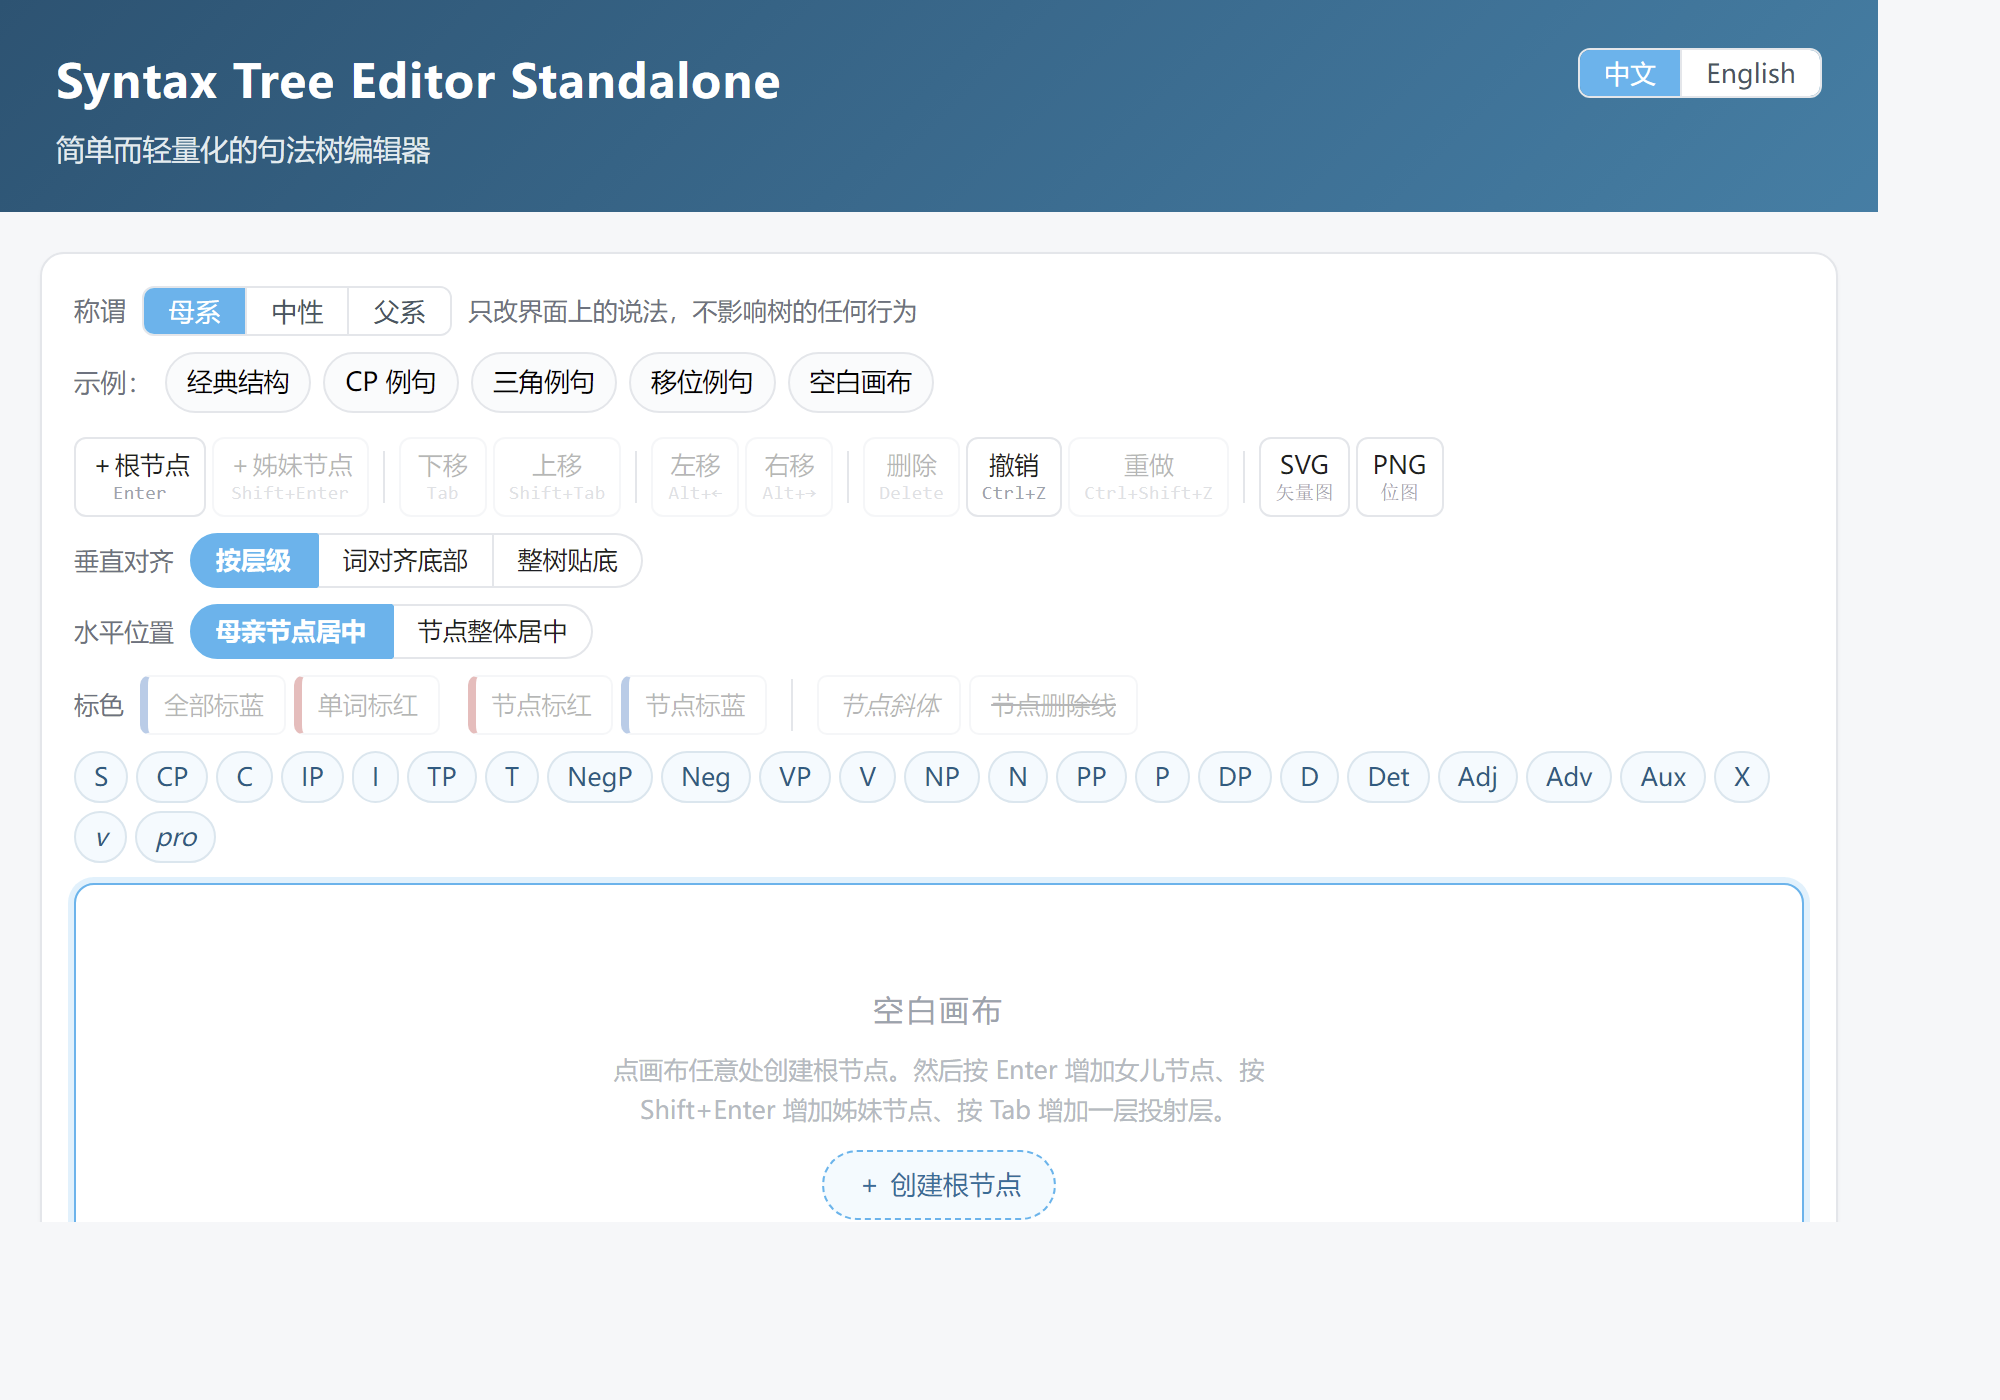
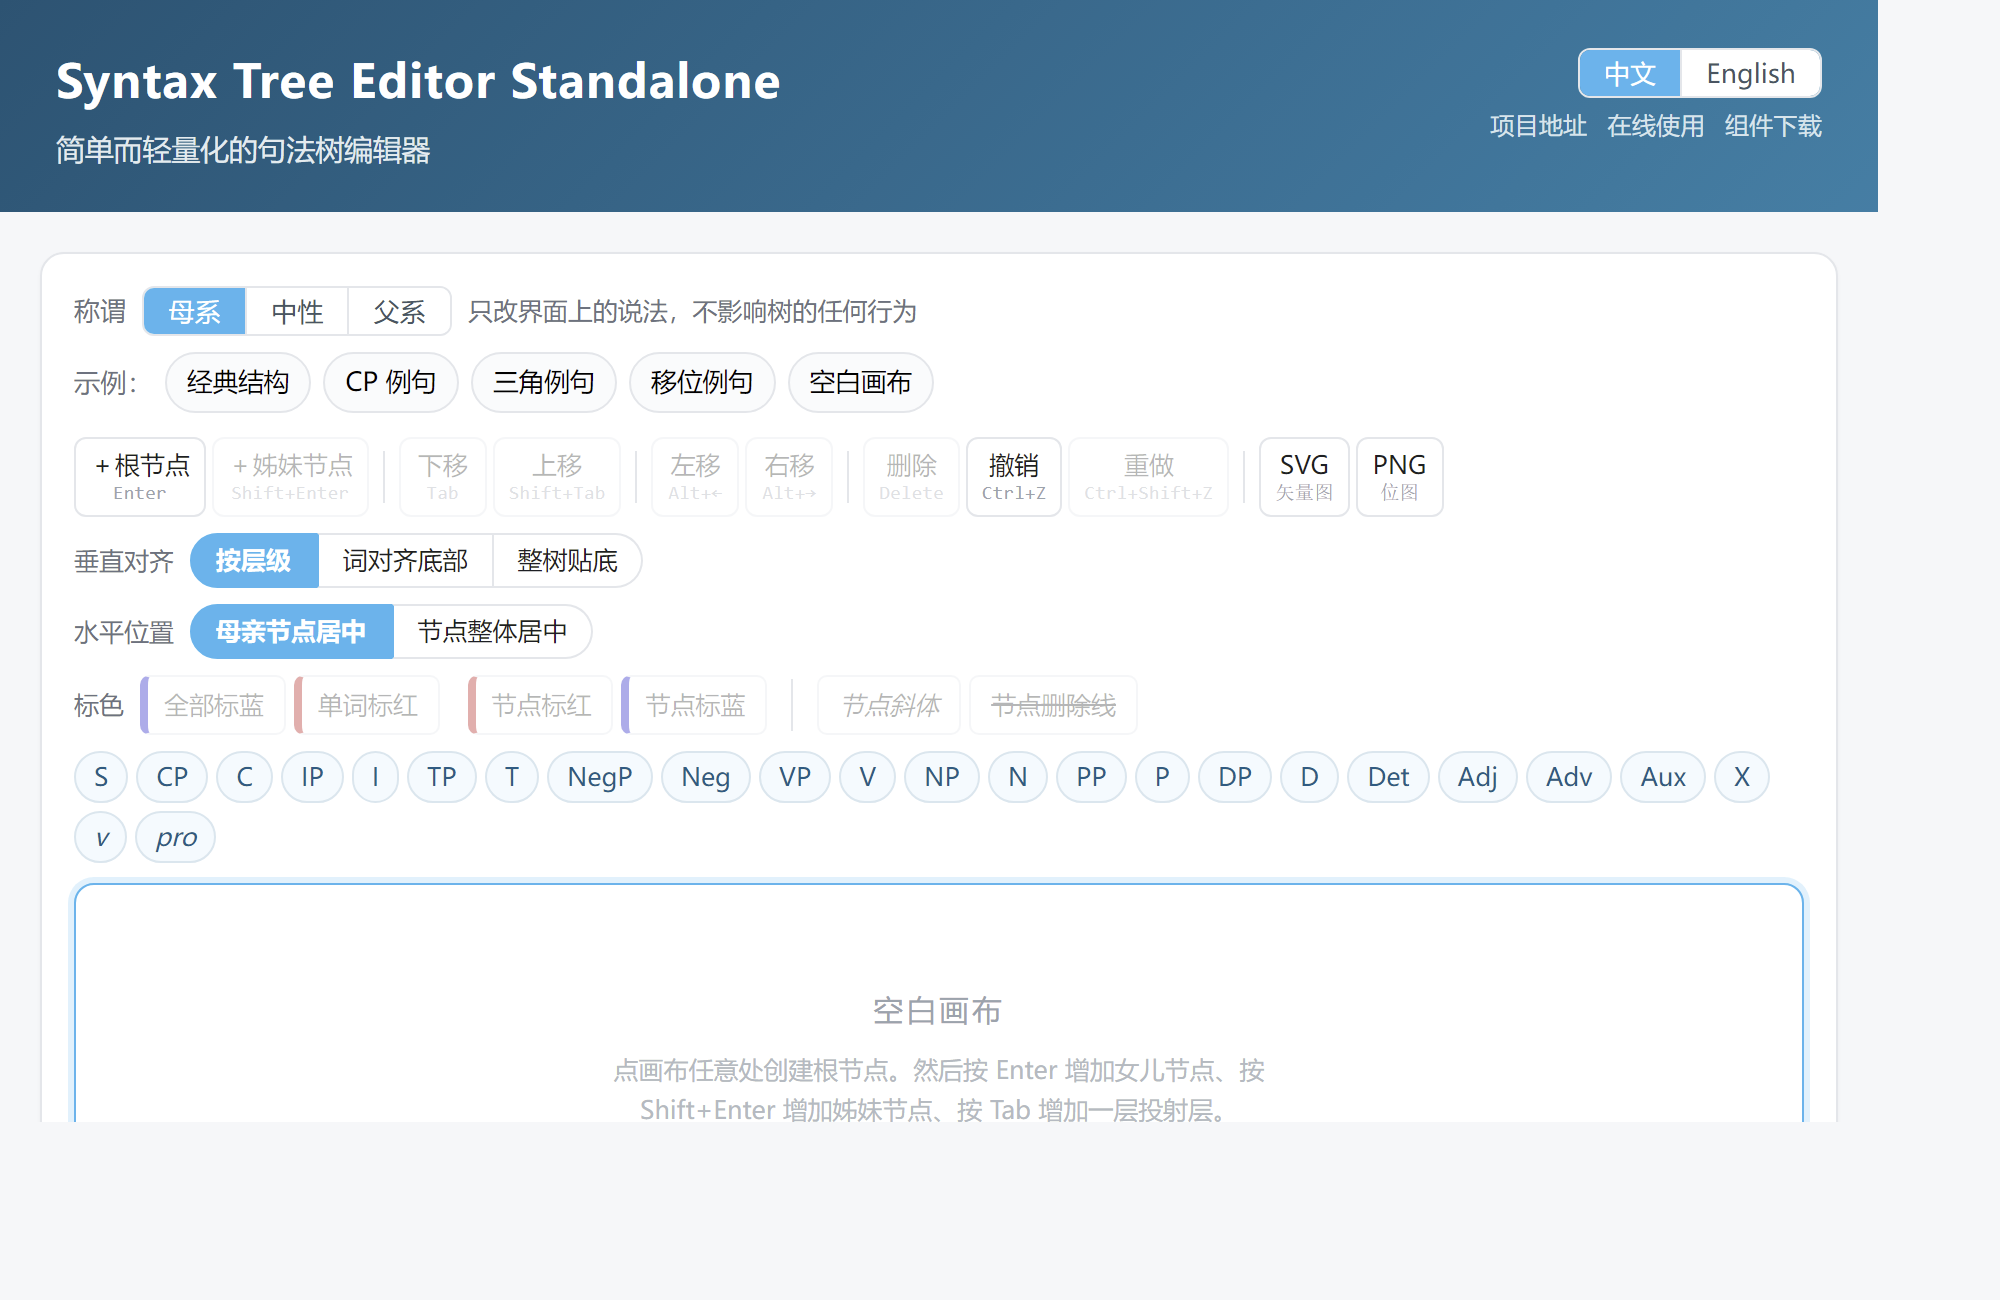
页头：项目地址 / 在线使用 / 组件下载 三个链接挪到右上角语言切换下面，页脚不再重复
作者 2026-09-18：「把项目地址等三项放到右上切换语言的下边一遍」。

- index.html：页头右上的语言切换外面包一层 .head-right（竖排），下面加一行 .head-links
  放三个链接（文案仍走 i18n 的 page.link.* ；页脚那一份删掉，只留版权行）
- style.css：新增 .head-right（align-items:flex-end + gap）、.head-links（浅色、悬停变白加下划线）；
  .head-lang 不再自己 margin-top，交给 .head-right
- screenshots/ 六张**重拍**（界面变了，按铁律 9；参数照 HANDOVER 第六部分那张表）
- CHANGELOG v1.2.4 加一条「三个链接挪到页头右上角」
- npm test：111 + 31 + 172 + 13 = 327 项全绿，一致性自检 0 个问题
- 中英两版页头都实拍确认过（链接文案走 i18n：Repository / Live demo / Download）

diff --git a/Syntax Tree Editor Standalone.html b/Syntax Tree Editor Standalone.html
@@ -55,7 +55,7 @@ header .note {
   border-radius: 0 6px 6px 0;
 }
 
-/* 页头一行：标题在左，语言切换在右上角。
+/* 页头一行：标题在左，右上角是「语言切换 + 三个链接」两行。
    语言按钮沿用 .terms-group 的样式，这里只把它调成适合深色页头的配色。 */
 .head-bar {
   display: flex;
@@ -64,9 +64,18 @@ header .note {
   gap: 16px;
 }
 
+/* 右上角那一列：上边是语言按钮，下边是项目地址 / 在线使用 / 组件下载 */
+.head-right {
+  flex: none;
+  display: flex;
+  flex-direction: column;
+  align-items: flex-end;
+  gap: 6px;
+  margin-top: 2px;
+}
+
 .head-lang {
   flex: none;
-  margin-top: 2px;
 }
 
 .head-lang button {
@@ -83,6 +92,26 @@ header .note {
   color: #125475;
   background: #fff;
   border-color: #fff;
+}
+
+/* 三个链接：跟在语言按钮下面一行，配色跟页头一致（浅色、悬停变白并加下划线） */
+.head-links {
+  display: flex;
+  flex-wrap: wrap;
+  justify-content: flex-end;
+  gap: 10px;
+  font-size: 0.76rem;
+  line-height: 1.2;
+}
+
+.head-links a {
+  color: rgba(255, 255, 255, 0.82);
+  text-decoration: none;
+}
+
+.head-links a:hover {
+  color: #fff;
+  text-decoration: underline;
 }
 
 header .note code {
@@ -837,10 +866,17 @@ footer {
             简单而轻量化的句法树编辑器
           </p>
         </div>
-        <!-- 语言切换放右上角：两个按钮，当前语言高亮（data-lang 的值来自 src/i18n.js 的 LANGS） -->
-        <div class="head-lang terms-group">
-          <button type="button" data-lang="zh" class="is-on">中文</button>
-          <button type="button" data-lang="en">English</button>
+        <!-- 右上角：语言切换在上一行，三个链接在它下面一行（页脚也保留一份，方便滚到底的人点） -->
+        <div class="head-right">
+          <div class="head-lang terms-group">
+            <button type="button" data-lang="zh" class="is-on">中文</button>
+            <button type="button" data-lang="en">English</button>
+          </div>
+          <span class="head-links">
+            <a href="https://github.com/Ye-Hegui/syntax-tree-editor-standalone/" data-i18n="page.link.repo">项目地址</a>
+            <a href="https://ye-hegui.github.io/syntax-tree-editor-standalone/" data-i18n="page.link.online">在线使用</a>
+            <a href="https://disk.pku.edu.cn/link/AADCFA80E10F2B4D49B2FA4A8A0C9BB2CF" data-i18n="page.link.download">组件下载</a>
+          </span>
         </div>
       </div>
     </header>
@@ -1335,12 +1371,6 @@ Red(4)</pre>
     <footer>
       <span data-i18n="page.footer">独立的编辑器实现，输入格式沿用 phpSyntaxTree / jsSyntaxTree 通行的括号记法；
       代码为本项目自写，不包含原项目源码。</span>
-      <br />
-      <span class="footer-links">
-        <a href="https://github.com/Ye-Hegui/syntax-tree-editor-standalone/" data-i18n="page.link.repo">项目地址</a>
-        <a href="https://ye-hegui.github.io/syntax-tree-editor-standalone/" data-i18n="page.link.online">在线使用</a>
-        <a href="https://disk.pku.edu.cn/link/AADCFA80E10F2B4D49B2FA4A8A0C9BB2CF" data-i18n="page.link.download">组件下载</a>
-      </span>
       <br />
       v1.2.4 · <span data-i18n="page.licence">以 MIT 许可证发布</span>，Copyright (c) 2026 Ye Hegui。
     </footer>

diff --git a/index.html b/index.html
@@ -16,10 +16,17 @@
             简单而轻量化的句法树编辑器
           </p>
         </div>
-        <!-- 语言切换放右上角：两个按钮，当前语言高亮（data-lang 的值来自 src/i18n.js 的 LANGS） -->
-        <div class="head-lang terms-group">
-          <button type="button" data-lang="zh" class="is-on">中文</button>
-          <button type="button" data-lang="en">English</button>
+        <!-- 右上角：语言切换在上一行，三个链接在它下面一行（页脚也保留一份，方便滚到底的人点） -->
+        <div class="head-right">
+          <div class="head-lang terms-group">
+            <button type="button" data-lang="zh" class="is-on">中文</button>
+            <button type="button" data-lang="en">English</button>
+          </div>
+          <span class="head-links">
+            <a href="https://github.com/Ye-Hegui/syntax-tree-editor-standalone/" data-i18n="page.link.repo">项目地址</a>
+            <a href="https://ye-hegui.github.io/syntax-tree-editor-standalone/" data-i18n="page.link.online">在线使用</a>
+            <a href="https://disk.pku.edu.cn/link/AADCFA80E10F2B4D49B2FA4A8A0C9BB2CF" data-i18n="page.link.download">组件下载</a>
+          </span>
         </div>
       </div>
       <p class="sub note" data-i18n="page.note">
@@ -519,12 +526,6 @@ Red(4)</pre>
     <footer>
       <span data-i18n="page.footer">独立的编辑器实现，输入格式沿用 phpSyntaxTree / jsSyntaxTree 通行的括号记法；
       代码为本项目自写，不包含原项目源码。</span>
-      <br />
-      <span class="footer-links">
-        <a href="https://github.com/Ye-Hegui/syntax-tree-editor-standalone/" data-i18n="page.link.repo">项目地址</a>
-        <a href="https://ye-hegui.github.io/syntax-tree-editor-standalone/" data-i18n="page.link.online">在线使用</a>
-        <a href="https://disk.pku.edu.cn/link/AADCFA80E10F2B4D49B2FA4A8A0C9BB2CF" data-i18n="page.link.download">组件下载</a>
-      </span>
       <br />
       v1.2.4 · <span data-i18n="page.licence">以 MIT 许可证发布</span>，Copyright (c) 2026 Ye Hegui。
     </footer>

diff --git a/style.css b/style.css
@@ -48,7 +48,7 @@ header .note {
   border-radius: 0 6px 6px 0;
 }
 
-/* 页头一行：标题在左，语言切换在右上角。
+/* 页头一行：标题在左，右上角是「语言切换 + 三个链接」两行。
    语言按钮沿用 .terms-group 的样式，这里只把它调成适合深色页头的配色。 */
 .head-bar {
   display: flex;
@@ -57,9 +57,18 @@ header .note {
   gap: 16px;
 }
 
+/* 右上角那一列：上边是语言按钮，下边是项目地址 / 在线使用 / 组件下载 */
+.head-right {
+  flex: none;
+  display: flex;
+  flex-direction: column;
+  align-items: flex-end;
+  gap: 6px;
+  margin-top: 2px;
+}
+
 .head-lang {
   flex: none;
-  margin-top: 2px;
 }
 
 .head-lang button {
@@ -76,6 +85,26 @@ header .note {
   color: #125475;
   background: #fff;
   border-color: #fff;
+}
+
+/* 三个链接：跟在语言按钮下面一行，配色跟页头一致（浅色、悬停变白并加下划线） */
+.head-links {
+  display: flex;
+  flex-wrap: wrap;
+  justify-content: flex-end;
+  gap: 10px;
+  font-size: 0.76rem;
+  line-height: 1.2;
+}
+
+.head-links a {
+  color: rgba(255, 255, 255, 0.82);
+  text-decoration: none;
+}
+
+.head-links a:hover {
+  color: #fff;
+  text-decoration: underline;
 }
 
 header .note code {

diff --git a/CHANGELOG.md b/CHANGELOG.md
@@ -39,6 +39,10 @@ Version numbers follow semantic versioning. `v1.2.1`, `v1.2.2`, `v1.2.3` and `v1
 
 ### 改动 / Changed
 
+- **三个链接从页脚挪到页头右上角**（作者 2026-09-18 要的：项目地址 / 在线使用 / 组件下载，
+  排在语言切换的下面一行）；页脚只留版权行，不再重复 ·
+  **The three links moved from the footer to the top-right of the header** (the author's request: repository /
+  live demo / download, on the line below the language switch); the footer now only carries the licence line
 - **基线的红蓝 = 声明写出来的红蓝**：默认画法不再另用一套色值，改成一**共用同一张色值表**，
   以原来基线那两个为准（`Red` = `#CC0000`、`Blue` = `#0000CC`，画布外观不变）。
   所以什么都不写（靠基线）和手写 `Blue(words)` 看起来完全一样，不会出现"一棵树两种蓝" ·
@@ -71,8 +75,8 @@ Version numbers follow semantic versioning. `v1.2.1`, `v1.2.2`, `v1.2.3` and `v1
   `COLOR_VALUES` 决定色值），渲染、按钮判定与测试都从这里取 ·
   The baseline and the default rendering now share a single source (`baselineColor()` in `style.js` decides
   red-or-blue, `COLOR_VALUES` supplies the value), used by the renderer, the button logic and the tests
-- `screenshots/` 六张**不用重拍**（默认画布的颜色回到原样）·
-  The six screenshots needed no retake (the default canvas keeps its original colours)
+- `screenshots/` 六张**已重拍**（页头多了三个链接那一行）·
+  The six screenshots were **retaken** (the header gained the row of three links)
 
 ## v1.2.3（内部开发版，未发布 / internal, unreleased）
 
